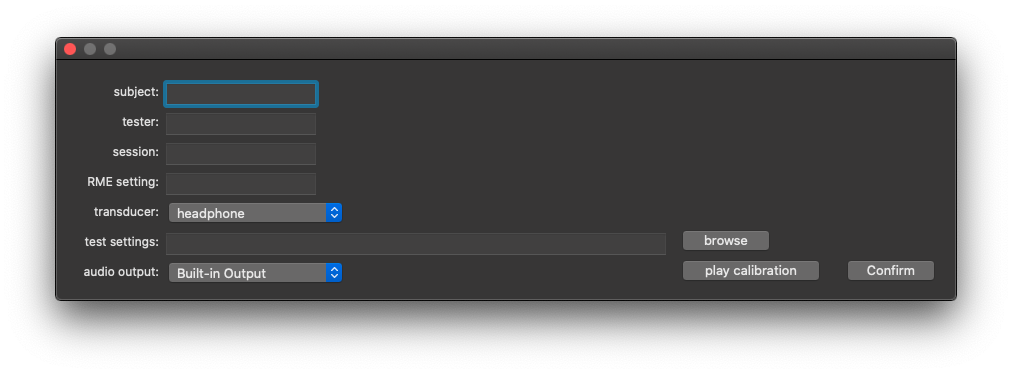
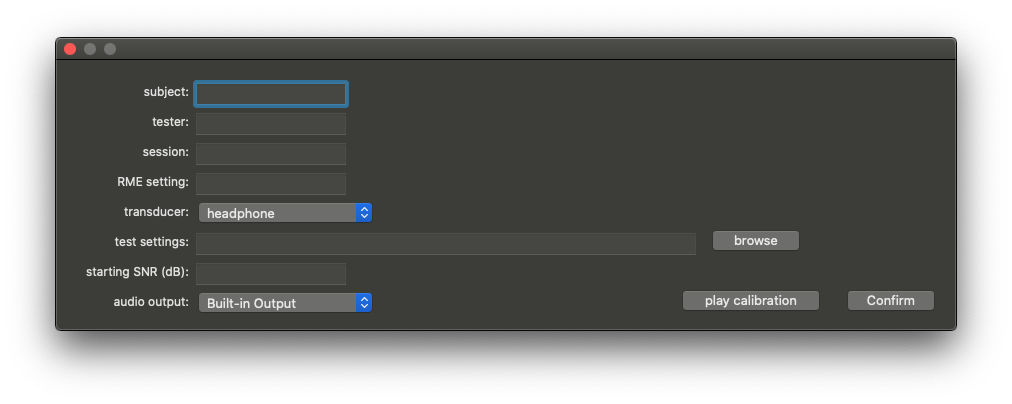
update for 3.4.0

Changed region(s): [[0.0306, 0.0882, 0.9496, 0.8235], [0.6739, 0.5588, 0.919, 0.7647]]

diff --git a/main.tex b/main.tex
@@ -49,7 +49,7 @@
 \begin{document}
 \vspace*{30ex}
 \begin{center}
-\textbf{AV Speech in Noise 3.3.0}
+\textbf{AV Speech in Noise 3.4.0}
 \end{center}
 \pagebreak
 \tableofcontents
@@ -63,7 +63,7 @@ The application opens to the test setup window shown in Figure~\ref{fig:test-set
 	\caption{test setup window}
 	\label{fig:test-setup-window}
 \end{figure}
-The tester browses for test settings, a plaintext file used for test configuration. An example is shown in Listing~\ref{lst:example-test-settings}.
+The tester browses for \texttt{test settings}, a plaintext file used for test configuration. An example is shown in Listing~\ref{lst:example-test-settings}.
 
 \noindent\begin{minipage}{\textwidth}
 	\lstinputlisting[
@@ -83,8 +83,6 @@ Each setting is printed on its own line. The order of settings does not matter. 
  \frac{10^{\frac{L-119}{20}}}{\sqrt{\frac{1}{N}\sum_{n=1}^{N}x_{n}^{2}}}\label{eq:masker-scale}
 \end{equation}
 where \texttt{L} is the masker level.
-\subsection{starting SNR (dB)}
-\texttt{starting SNR (dB)} specifies the starting target playback level relative to the masker level. For a fixed-level test this level applies to every target. \textbf{Each target file is assumed to have an equivalent RMS to the masker file}.
 \subsection{condition}
 \texttt{condition} is one of \texttt{auditory-only} or \texttt{audio-visual}. An \texttt{audio-visual} condition shows target video content.
 \subsection{method}
@@ -118,6 +116,8 @@ where \texttt{L} is the masker level.
 
 \vspace{\baselineskip}
 Listing~\ref{lst:example-test-settings} shows an example for a rule of 1-up, 2-down for 2 reversals at a step size of 4 dB followed by 6 reversals at a step size of 2 dB.
+
+\texttt{starting SNR (dB)} specifies the starting target playback level relative to the masker level. For a fixed-level test this level applies to every target. \textbf{Each target file is assumed to have an equivalent RMS to the masker file}.
 
 \section{Test Procedure}
 A test consists of several trials. Depending on the test method specified either the subject or the tester initiates each trial. For a CRM test the subject starts by pressing the button shown in Figure~\ref{fig:subject-ready-window} on the subject monitor. Each trial begins with a random section of the masker. After the masker fades in for 0.5 seconds the target is played. Figure~\ref{fig:target-stimulus} shows an example target for an \texttt{audio-visual} condition. After the target finishes playing the masker fades out for 0.5 seconds. Once the masker has finished fading out the response interface is shown. For a CRM test the subject window is populated with 4 rows of 8 colored number buttons whose colors are green, red, blue and white as shown in Figure~\ref{fig:subject-response-window}. The subject presses the button corresponding to the number and color instructed by the target. The response is evaluated by analyzing the file name of the target.
